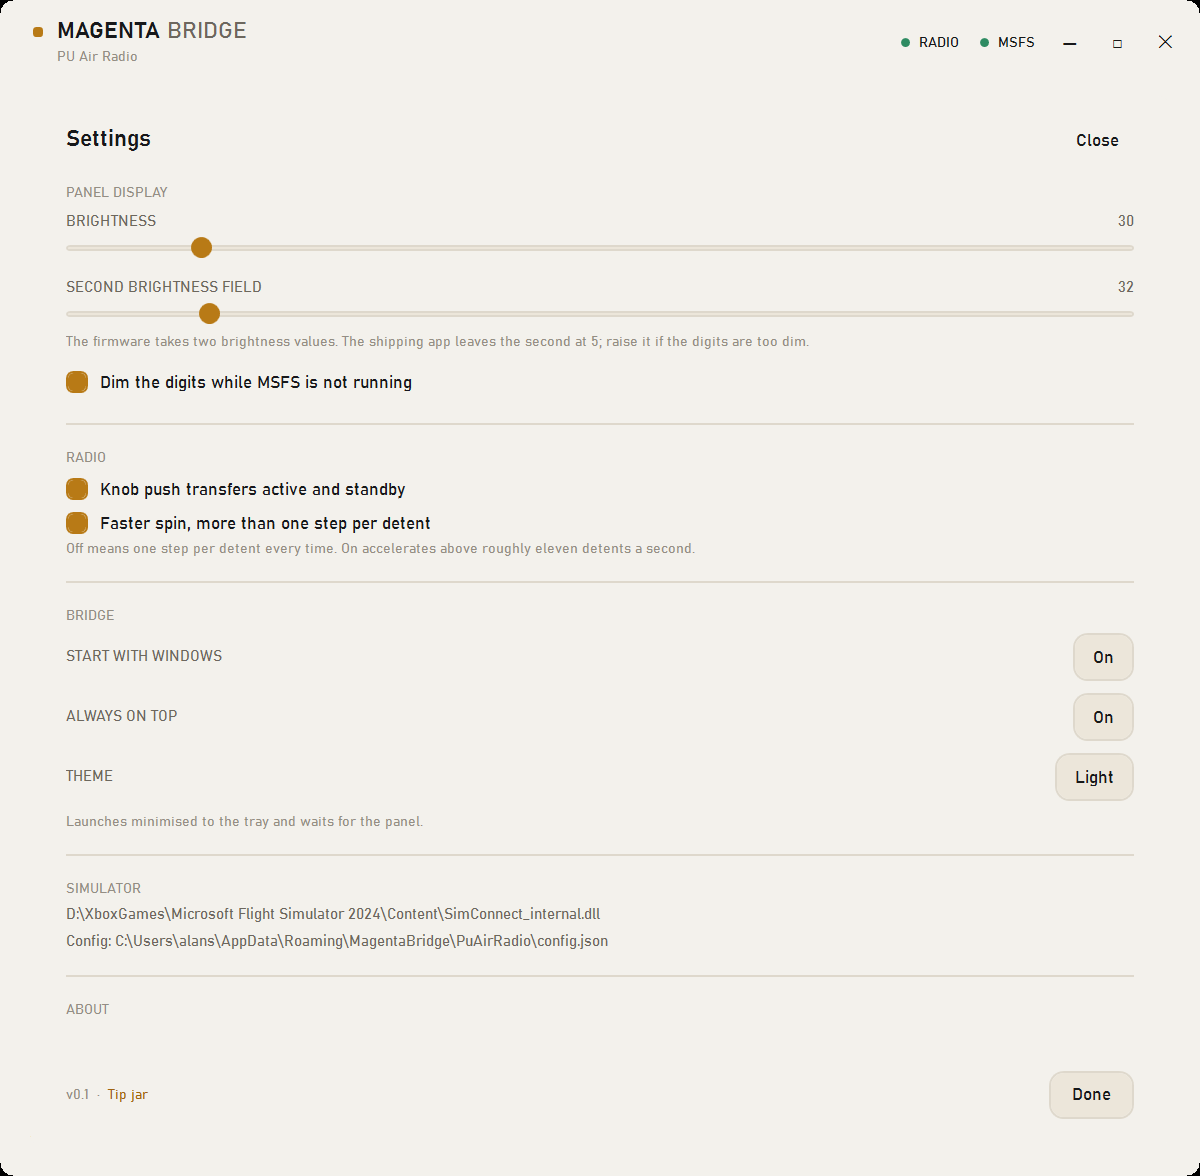
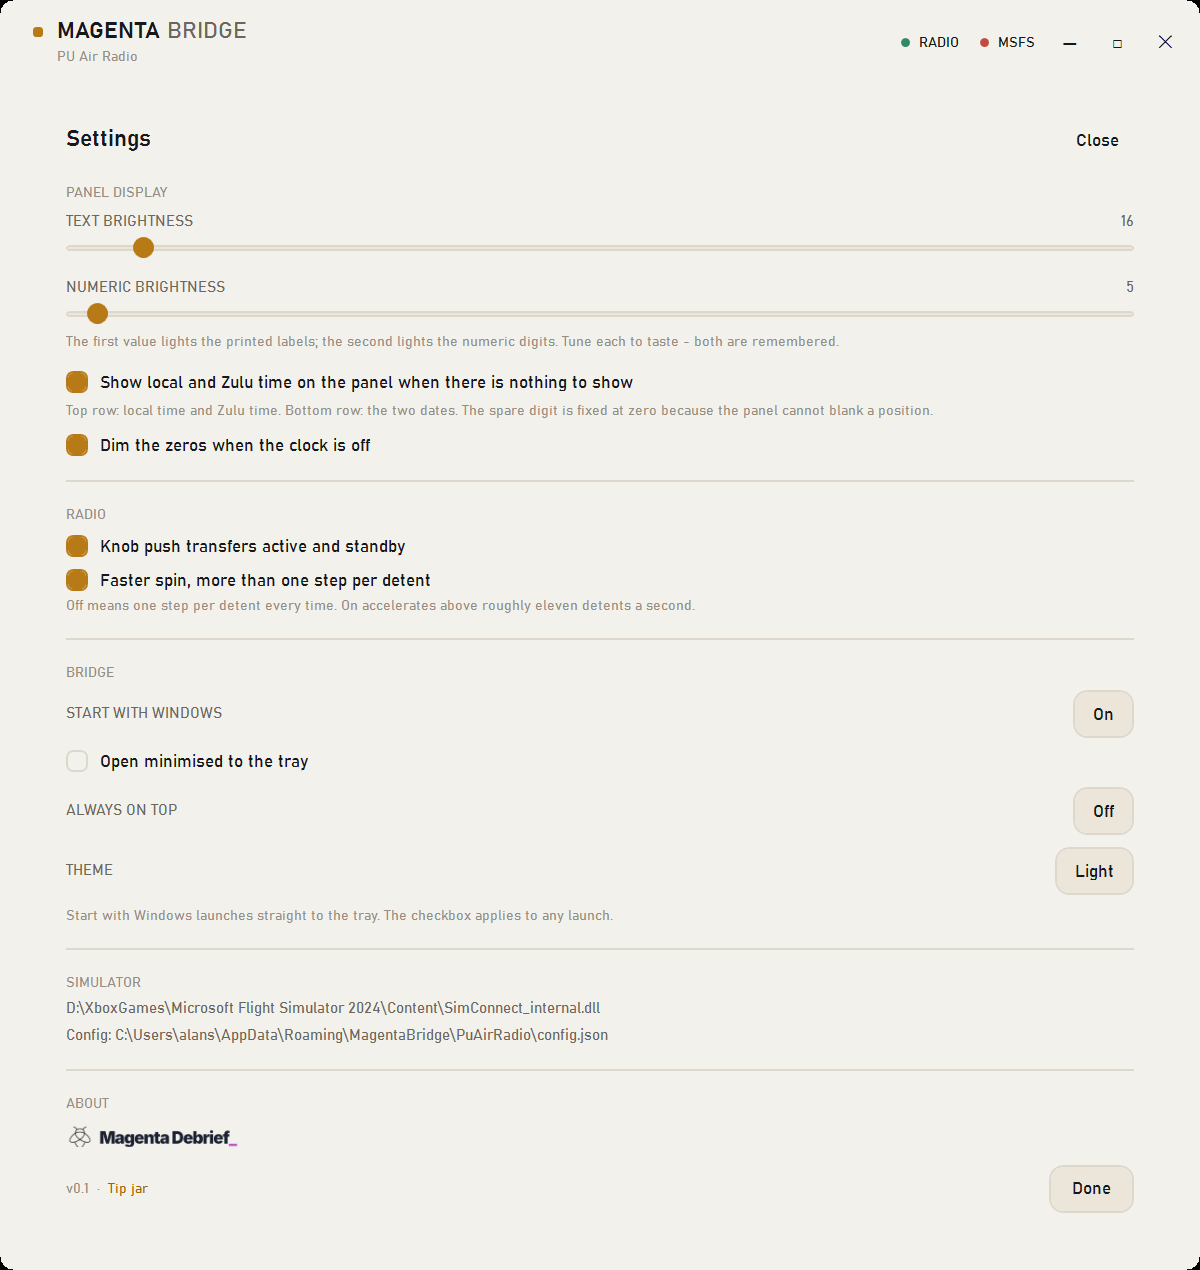
README: show the current screenshots, link the family, correct the first-launch note

diff --git a/README.md b/README.md
@@ -1,5 +1,7 @@
 # Magenta Bridge for PU Air Radio
 
+<img src="docs/clock-idle.png" width="820" alt="Magenta Bridge showing the panel clock: local time 16.03 and Zulu 08.03 on the top row, 22.10 dates below, with the radio connected and MSFS not running">
+
 An independent Windows client for the **PU Radio** panel in Microsoft Flight Simulator 2024.
 Free, MIT, no telemetry, no MobiFlight, no vendor plug-in.
 
@@ -9,16 +11,23 @@ the truth about what is connected.
 
 ```
 COM1 active 133.800  standby 132.850
-COM2 active 124.850  standby 124.700
+COM2 active 124.850  standby 124.725
 ```
+
+**[Download for Windows](https://github.com/flyingsotong/magenta-bridge-pu-air-radio/releases/latest)** ·
+[Product page](https://magentadebrief.com/magenta-bridge-pu-air-radio/) ·
+[The panel review](https://magentadebrief.com/pu-air-korea-radio-review/)
 
 ## Why
 
-PU CONNECT works, but its radio side has three habits that make it unpleasant to fly with:
+PU CONNECT covers the radio, and it is the vendor's supported client. Three things about its radio
+side are still worth fixing:
 
-- Turning the brightness down to zero blacks the whole panel out with no explanation.
-- Encoder clicks go missing, so the frequency skips.
-- The app is a wall of unrelated product tabs, and the radio page is a settings dialog, not a radio.
+- Turning the brightness down to zero leaves the digits lit but unreadable, so the panel looks dead
+  with no explanation
+- Encoder clicks go missing, so the frequency skips
+- The app is a wall of unrelated product tabs, and the radio page is a settings dialog rather than
+  a radio
 
 This does the radio only, and it does it the way a radio head should behave.
 
@@ -37,15 +46,18 @@ This does the radio only, and it does it the way a radio head should behave.
 
 It is self-contained - no .NET runtime to install, no driver, no SimConnect redistributable.
 
+Close PU CONNECT while it runs. The panel's serial port takes one program, and the window says
+which one has it and offers a **Close PU CONNECT** button rather than closing it silently.
+
 ### First launch
 
 The panel keeps its selected COM/NAV mode inside its own firmware and only reports it when a
-control changes. So the first touch after a launch is what tells the bridge which side is COM and
-which is NAV. Until then the window says **PRESS A PANEL KEY** and the panel shows dim zeros
-rather than the vendor's 123.xx demo pattern. Turn a knob or rock a switch once.
+control changes. Until you touch something, nothing on the wire says which row is COM and there
+are no frequencies to show, so the panel runs its clock and the window says **PRESS A PANEL KEY**.
 
-After that the panel's mode switches drive the mode: the app follows the hardware, never the
-other way round.
+Turn a knob or rock a switch once. After that the panel's mode switches drive the mode: the app
+follows the hardware, never the other way round. The clock comes back whenever the sim is not
+running.
 
 ### If MSFS lists the panel as a game controller
 
@@ -74,6 +86,10 @@ window shows the whole frequency; both agree.
 
 ## Settings
 
+<img src="docs/settings-light.png" width="440" alt="Magenta Bridge settings in light mode: text and numeric brightness, the panel clock switched on, dim zeros on, knob push and faster spin on, start with Windows on, open minimised off, light theme, and the resolved SimConnect client with the config path">
+
+
+
 - **Text brightness** and **numeric brightness** - the two brightness fields the firmware takes.
   Both are remembered.
 - **Show local and Zulu time when idle** - uses the panel as a clock before the sim connects, in
@@ -84,7 +100,7 @@ window shows the whole frequency; both agree.
   nothing.
 - **Faster spin, more than one step per detent** - off by default. One click is one step; turning
   it on lets a fast spin cover more ground, at the cost of precision.
-- **Start with Windows**, **Always on top**, **Theme**.
+- **Start with Windows**, **Always on top**, **Open minimised to the tray**, **Theme**.
 
 `Esc` hides to the tray. `Ctrl+L` copies the log. The tray icon has the same actions as the window.
 
@@ -158,13 +174,22 @@ RADIO,<textBrightness>,<act1>,<stb1>,<act2>,<stb2>,<o1>,<o2>,<numericBrightness>
 twenty mapped events (whole/fraction step and transfer for four radios). The client DLL is
 discovered from the sim's own install rather than shipped.
 
+## The Magenta Bridge family
+
+This is the second client. The first is
+[Magenta Bridge for Octavi IFR-1](https://github.com/flyingsotong/magenta-bridge-octavi-ifr1),
+which does the same job for Octavi's panel and has its own
+[page](https://magentadebrief.com/magenta-bridge/). Both are free, MIT, and built at my own desk
+for the panels I fly with.
+
 ## Uninstall
 
 Close the app from the tray, delete its folder, then remove the startup entry if you enabled it
 (`HKCU\Software\Microsoft\Windows\CurrentVersion\Run`, value `Magenta Bridge (PU Air Radio)`) and
 the settings at `%APPDATA%\MagentaBridge\PuAirRadio`.
 
-## Licence
+## License
 
-MIT. Not affiliated with PU AIR KOREA. PU Radio is their product; this is an independent client
-written against its observable behaviour.
+MIT. Not affiliated with PU AIR KOREA and not endorsed by them. PU Radio is their product; this is
+an independent client written against its observable behaviour. PU CONNECT remains the vendor's
+supported software.
